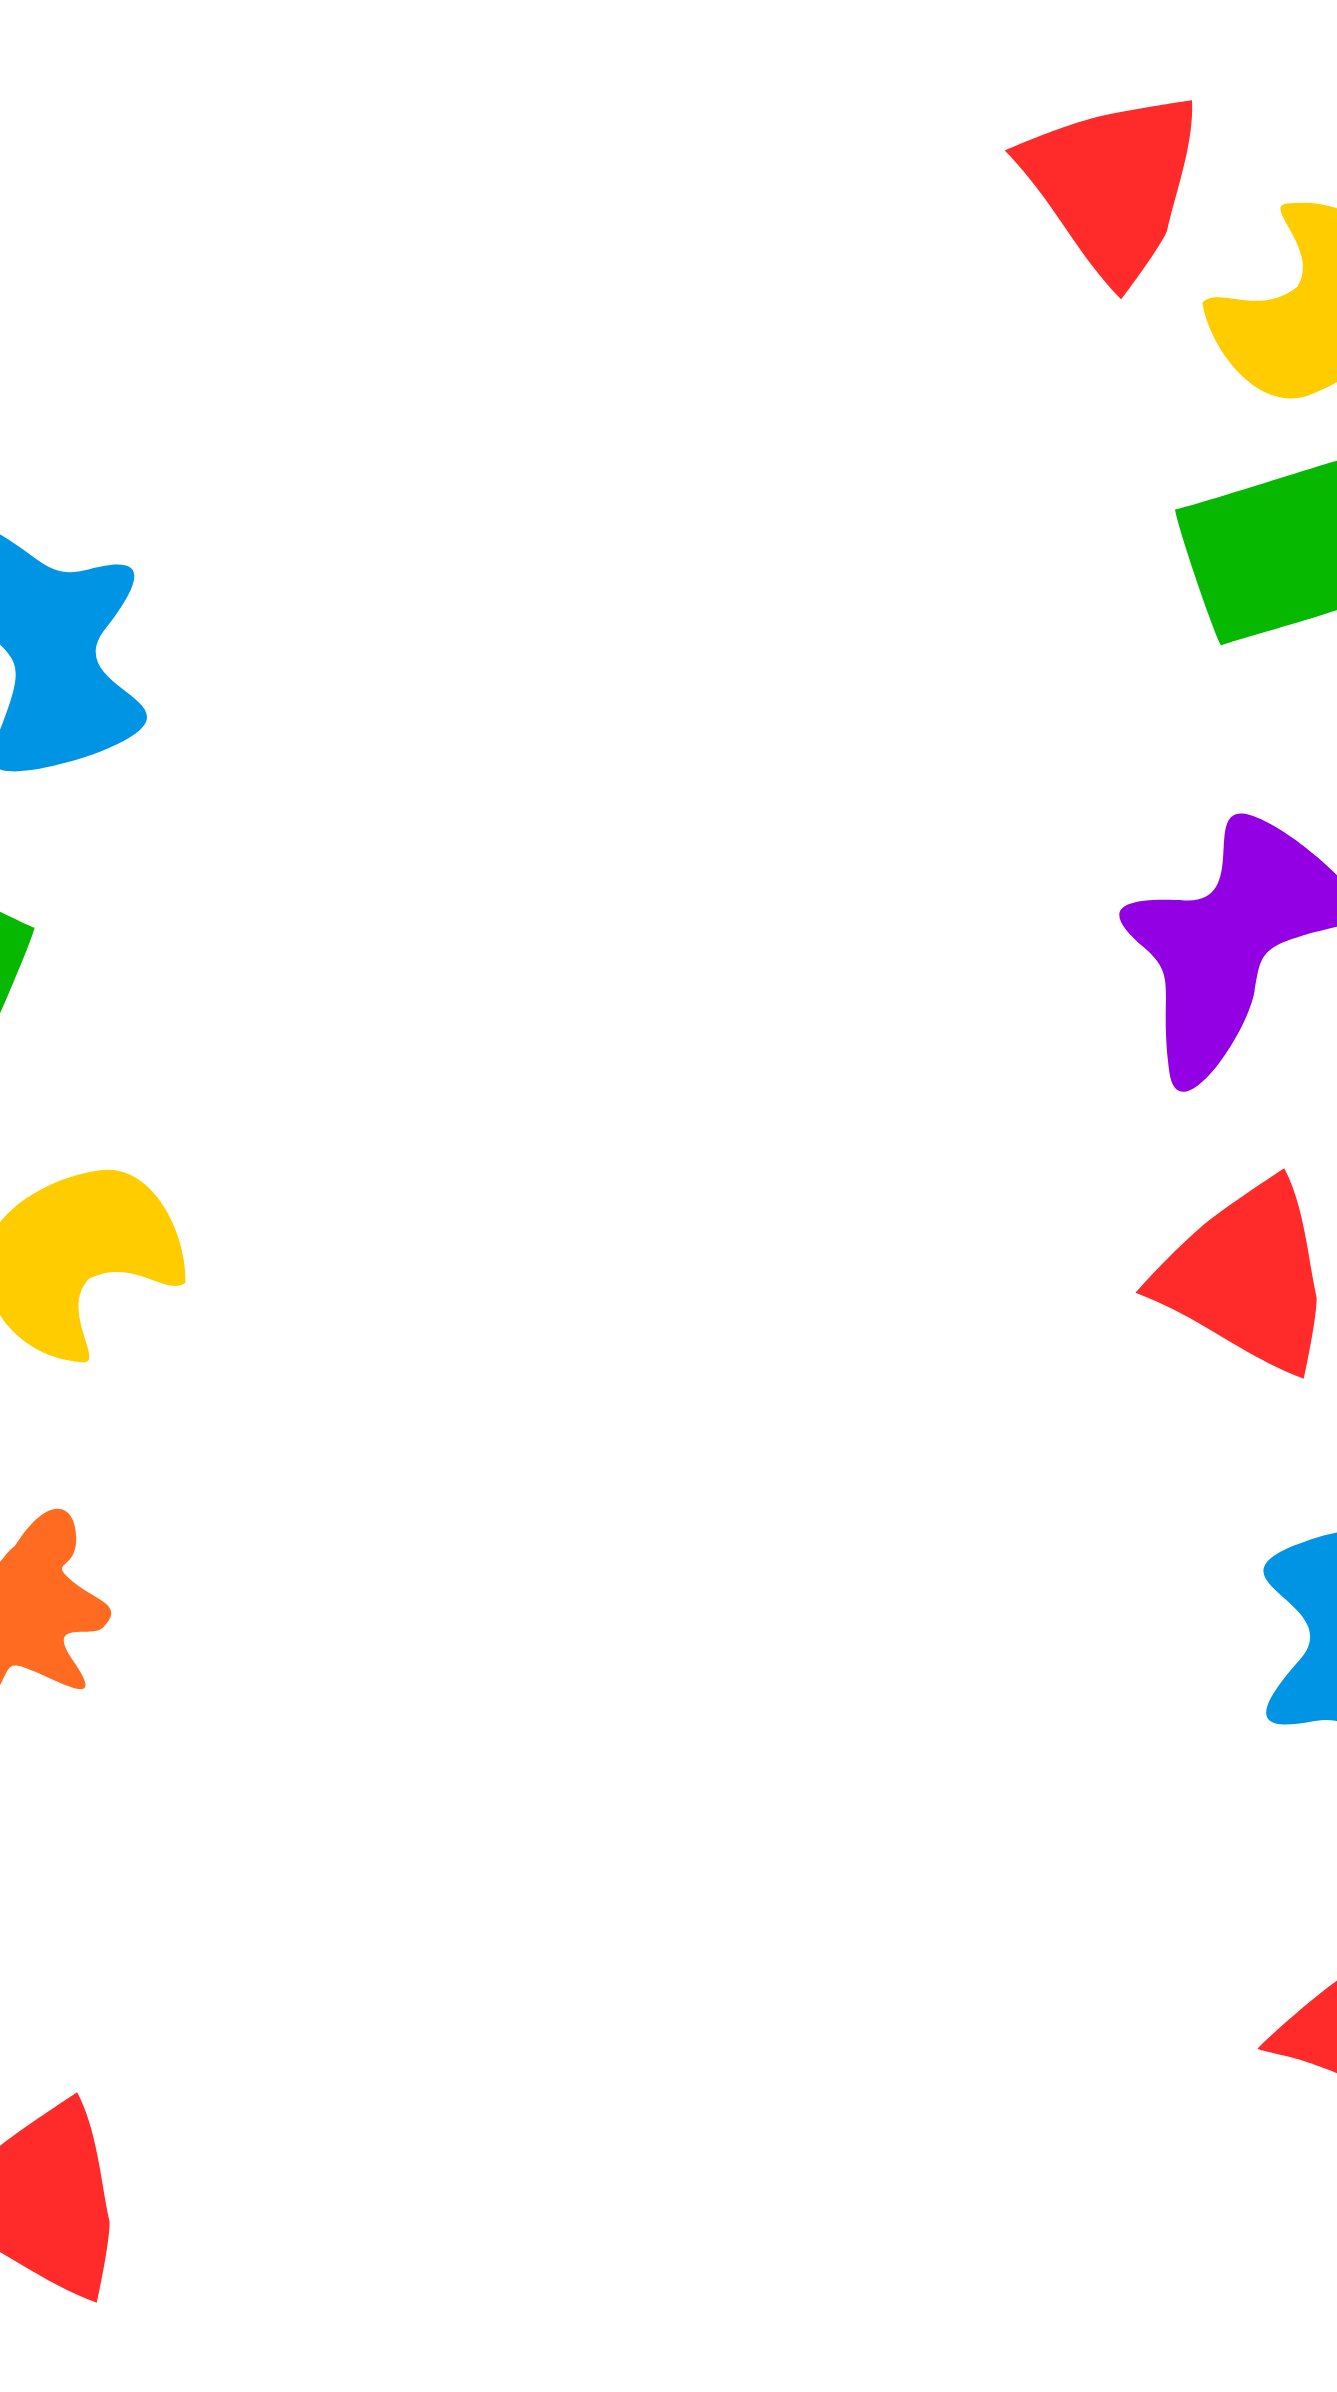
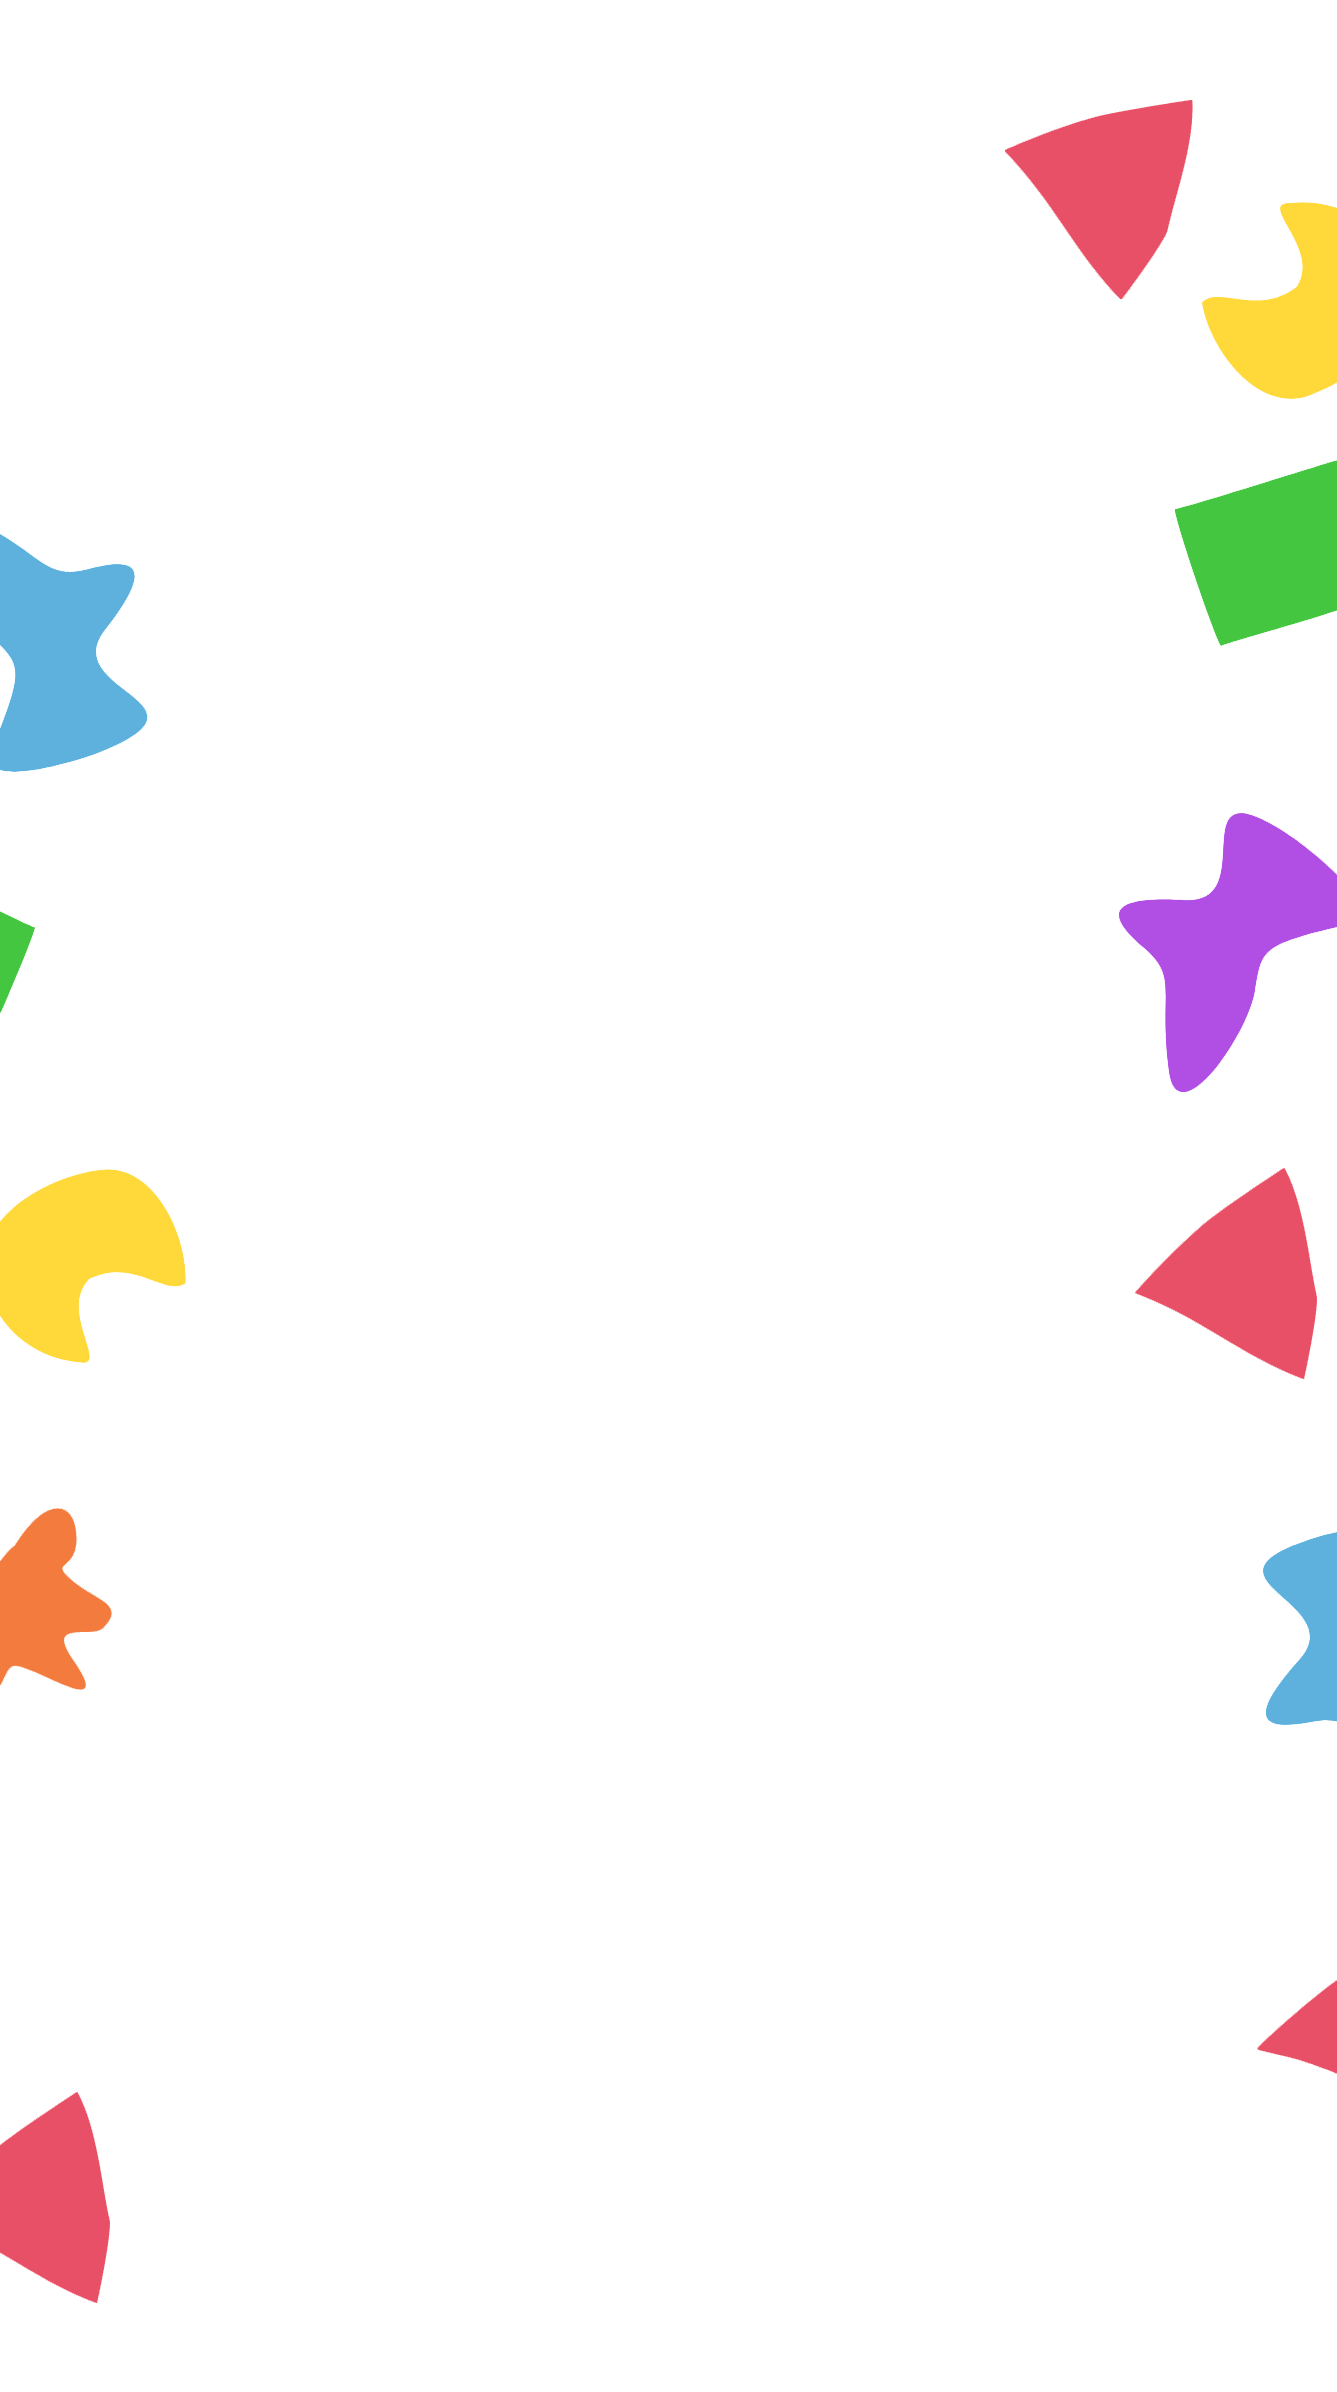
widescreen background added, colours adjusted

diff --git a/index.html b/index.html
@@ -73,6 +73,10 @@
             
                 
          
+            <article id = "ToDoApp" class = "project project-card-visible" name = "all design other" onclick = "expandProject('ToDoApp')"> <img src = "assets/img/ToDoAppDesktopLight.png"> <br> To-Do App design </article>
+            <article id = "EduSite" class = "project project-card-visible" name = "all design" onclick = "expandProject('EduSite')"> <img src = "assets/img/ToDoAppDesktopLight.png"> <br> Educational Website design </article>
+
+
 
             <article id = "onTheClock" class = "project project-card-visible" name = "all programming design" onclick = "expandProject('onTheClock')"> <img src = "assets/img/clock.png"> <br>On the Clock</article>
 
@@ -88,7 +92,7 @@
        
             <article id = "ThreeDArt" class = "project project-card-visible" name = "all art design" onclick = "expandProject('ThreeDArt')"> <img src = "assets/img/3DGreenhouse.png"> <br> 3D modelling project </article>
             
-            <article id = "ToDoApp" class = "project project-card-visible" name = "all design other" onclick = "expandProject('ToDoApp')"> <img src = "assets/img/ToDoAppDesktopLight.png"> <br> To-Do App design </article>
+            
             
             <article id = "cheatYourWayThrough" class = "project project-card-visible" name = "all programming" onclick = "expandProject('cheatYourWayThrough')"> <img src = "assets/img/cheat-your-way-through.png">  <br> Cheat Your Way Through</article>
 

diff --git a/assets/css/style.css b/assets/css/style.css
@@ -3,6 +3,7 @@ body {
     
     background-image: url(../img/splotches.png);
     background-size: 100%;
+    
 }
 main{
     display:flex;
@@ -326,11 +327,15 @@ img {
     .project {
         font-size: 30pt;
     }
-
-
-
-
+    
 }
 
+@media(min-width: 1600px) {
 
+    body {
+        background-image: url(../img/splotchesWidescreen.png);
+        
+    }
+
+    }
 
